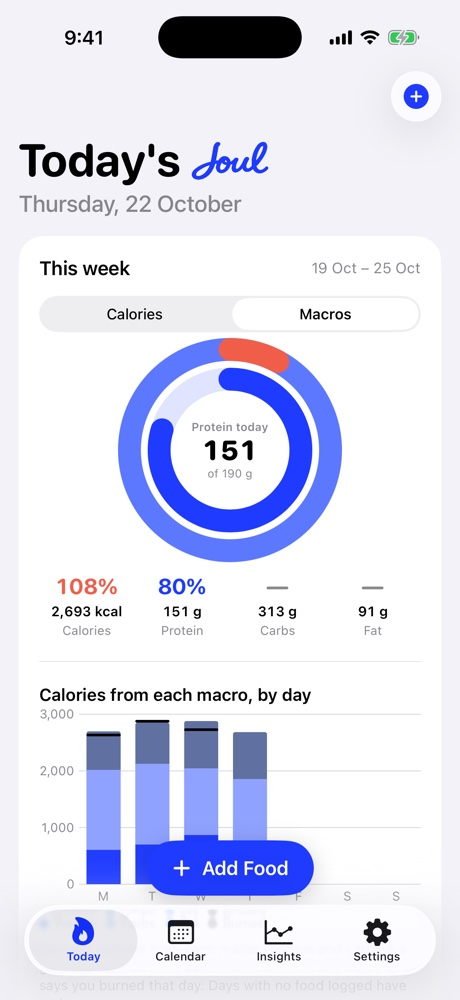
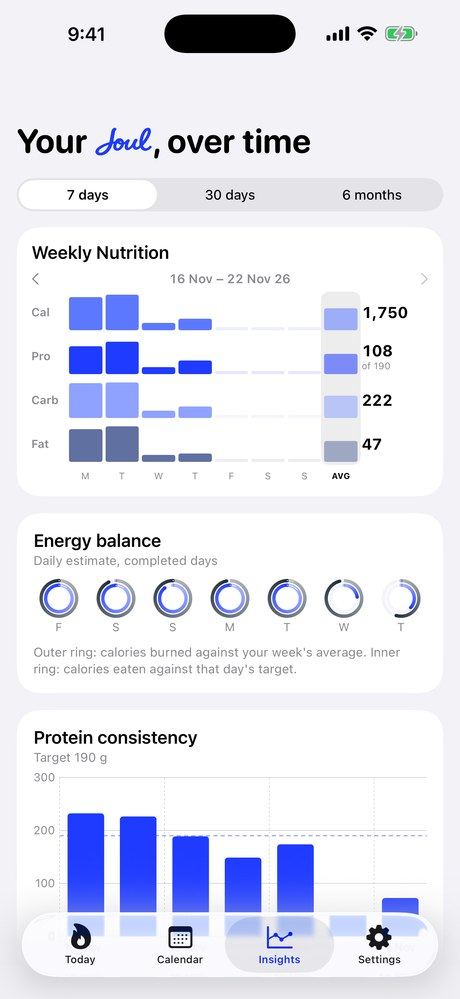
Refresh the Today and macros screenshots against the current build
Both were from before this round's redesign: the old Today screen's
single weekly dial is gone (replaced by the day-rings + Day Score
card), and the old "flip calories/macros" toggle moved into Insights
as the Weekly Nutrition card (per-day bars for calories, protein,
carbs and fat, with a 7-day average column). Recaptured both screens
in marketing mode and updated the alt text and feature copy to match
what's actually on screen now.

diff --git a/index.html b/index.html
@@ -70,11 +70,11 @@
       <div class="copy">
         <span class="ico" aria-hidden="true"><svg viewBox="0 0 24 24"><path d="M12 3c1 3.2 4.5 4.6 4.5 9a4.5 4.5 0 0 1-9 0c0-1.7.7-2.9 1.6-3.9.2 1.2.9 1.9 1.7 2.2C10.5 8 11 5.3 12 3Z"/></svg></span>
         <h2>Your calories burned, pulled in automatically.</h2>
-        <p>WHOOP already knows how much energy you spend, and that number moves with your week — higher after a hard session, lower on a rest day. Joul reads it automatically, so you only log what you eat. The result is one number for today, and a weekly dial that shows the pattern, not just one day.</p>
+        <p>WHOOP already knows how much energy you spend, and that number moves with your week — higher after a hard session, lower on a rest day. Joul reads it automatically, so you only log what you eat. The result is one number for today, and a week-by-week view of the pattern, not just one day.</p>
         <a class="pill pill-dark" href="https://apps.apple.com/app/id6825645728" target="_blank" rel="noopener">Download Joul</a>
         <p class="data-by"><span>Data by</span><img src="assets/whoop-logo-black.svg" alt="WHOOP" width="96" height="16"></p>
       </div>
-      <div class="panel"><div class="shot"><figure class="iphone"><img src="assets/screens/main.jpg?v=5" alt="Joul's main view: the weekly calories dial with calories burned as the outline and calories eaten as the glowing shape, and the week's balance in the middle" loading="lazy" width="1000" height="2174"></figure><span class="note r wide" style="top:30%">Your WHOOP burn and what you ate, in one graph<svg class="arr" viewBox="0 0 64 40" aria-hidden="true"><path d="M62 6 C 44 2, 22 10, 6 34 M6 34 L5 22 M6 34 L17 30"/></svg></span></div></div>
+      <div class="panel"><div class="shot"><figure class="iphone"><img src="assets/screens/main.jpg?v=6" alt="Joul's main view: two rings for today, energy spent as the outer ring and calories eaten as the inner ring, with the day's balance in the middle, plus this week's progress toward the goal" loading="lazy" width="1000" height="2172"></figure><span class="note r wide" style="top:30%">Your WHOOP burn and what you ate, in one graph<svg class="arr" viewBox="0 0 64 40" aria-hidden="true"><path d="M62 6 C 44 2, 22 10, 6 34 M6 34 L5 22 M6 34 L17 30"/></svg></span></div></div>
     </article>
 
     <article class="feature rev reveal">
@@ -102,10 +102,10 @@
       <div class="copy">
         <span class="ico" aria-hidden="true"><svg viewBox="0 0 24 24"><path d="M6.5 9.5v5M17.5 9.5v5M3.5 11v2M20.5 11v2M6.5 12h11"/></svg></span>
         <h2>Your macros, at a glance.</h2>
-        <p>Flip the weekly view from calories to macros. Rings show how much protein, carbs and fat you have eaten today against your targets, and a bar for each day of the week stacks them by calories.</p>
+        <p>Calories, protein, carbs and fat, as a bar for each day of the week, side by side with a 7-day average — so you can see if you're on pace, not just how today looks.</p>
         <a class="pill pill-dark" href="https://apps.apple.com/app/id6825645728" target="_blank" rel="noopener">Download Joul</a>
       </div>
-      <div class="panel"><div class="shot"><figure class="iphone"><img src="assets/screens/macros.jpg?v=5" alt="The macros view: a ring for protein against its target today, grams of protein, carbs and fat, and a stacked bar for each day of the week" loading="lazy" width="1000" height="2174"></figure><span class="note r " style="top:33%">Protein, carbs and fat against your targets<svg class="arr" viewBox="0 0 64 40" aria-hidden="true"><path d="M62 6 C 44 2, 22 10, 6 34 M6 34 L5 22 M6 34 L17 30"/></svg></span></div></div>
+      <div class="panel"><div class="shot"><figure class="iphone"><img src="assets/screens/macros.jpg?v=6" alt="The Weekly Nutrition view: calories, protein, carbs and fat as a bar for each day of the week with a 7-day average column, plus a row of energy-balance rings for the week" loading="lazy" width="1000" height="2172"></figure><span class="note r " style="top:33%">Protein, carbs and fat against your targets<svg class="arr" viewBox="0 0 64 40" aria-hidden="true"><path d="M62 6 C 44 2, 22 10, 6 34 M6 34 L5 22 M6 34 L17 30"/></svg></span></div></div>
     </article>
     <p class="fine center">Screens from the Joul app, shown with sample data.</p>
   </section>
